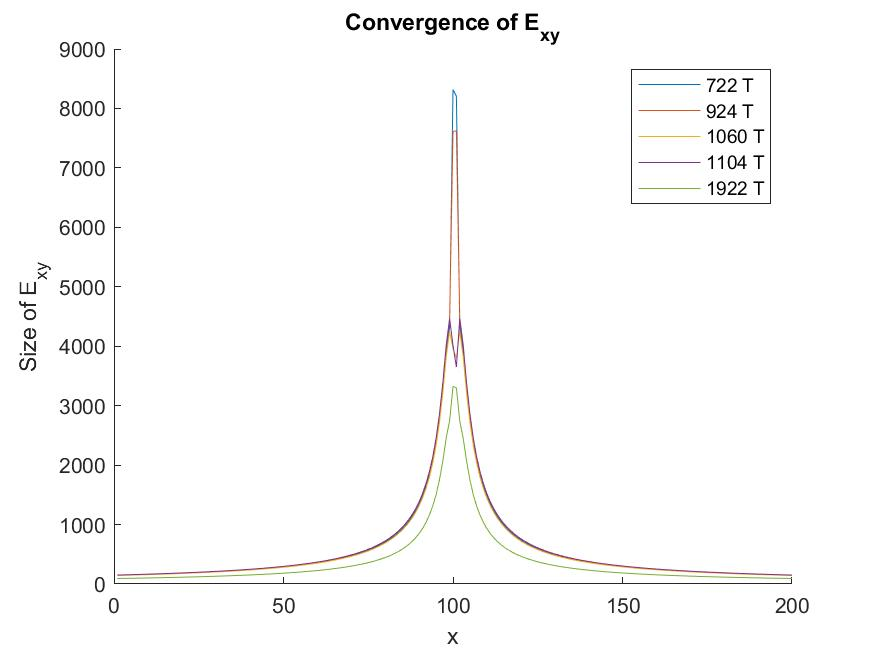
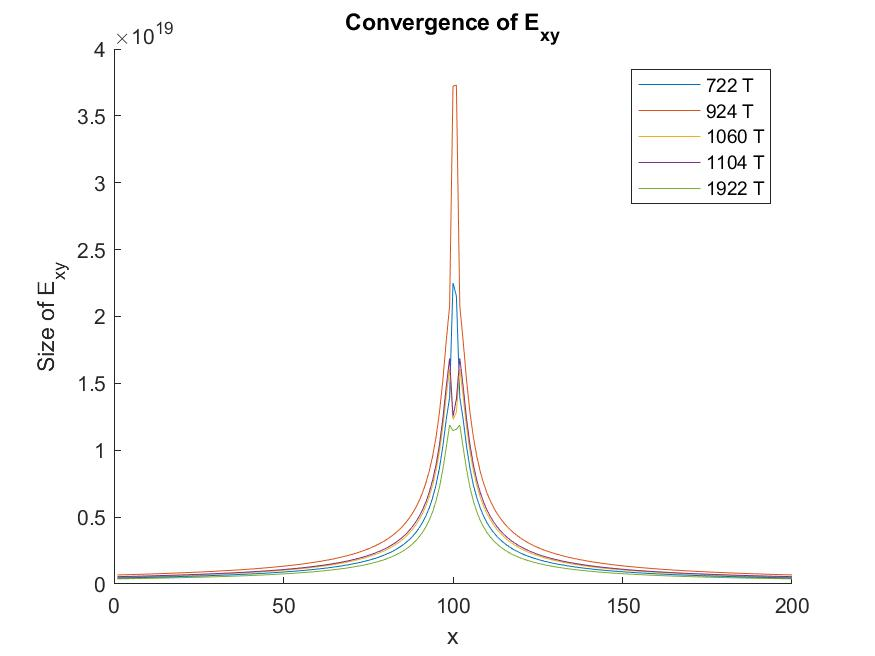
hopefully no conv

diff --git a/3D/LoadTesting.m b/3D/LoadTesting.m
@@ -6,10 +6,10 @@
 % stl = stlread('antennas/Dipole10cmT904.stl'); %
 % % stl = stlread('antennas/Dipole10cmT924.stl'); %god
 % stl = stlread('antennas/Dipole10cmT1060.stl'); %god
-stl = stlread('antennas/Dipole10cmT1104.stl'); %god
+% stl = stlread('antennas/Dipole10cmT1104.stl'); %god
 % stl = stlread('antennas/Dipole10cmT1458.stl'); %god 
 % stl = stlread('antennas/Dipole10cmT1680.stl'); 
-% stl = stlread('antennas/Dipole10cmT1922.stl'); %god
+stl = stlread('antennas/Dipole10cmT1922.stl'); %god
 % stl = stlread('antennas/Dipole10cmT2312.stl'); %god
 % stl = stlread('antennas/Dipole10cmT2888.stl'); %god
 % stl = stlread('antennas/Dipole10cmT3528.stl');
@@ -42,7 +42,7 @@ p4 = p;
 % t = [t; t+length(p1); t+length(p1)+length(p2); t+length(p1)+length(p2)+length(p3)];
 % % p(:,1) = p(:,1)+0.03;
 % Should source be dipole, if 0 a plane wave propagating in +x direction used
-UseDipole = 0;
+UseDipole = 1;
 DipolePoint = [.002,0,0];
 % If set to one use 81 sub triangles pr element, if 0 use 9
 SubSubTri = 0;

diff --git a/3D/ArbitraryAntenna.m b/3D/ArbitraryAntenna.m
@@ -530,6 +530,8 @@ classdef ArbitraryAntenna
                         zMM = (RhoM(MO(i),:));
                         zMM_ = (RhoM_(:,:,MO(i)));
                         for j=1:length(PI)
+                            zNP = (RhoP(PI(j),:));
+                            zNP_ = (RhoP_(:,:,PI(j)));
                             if MO(i)==PI(j)
                                 g = I2(y); 
                                 Z(MO(i), PI(j)) = ...
@@ -552,6 +554,8 @@ classdef ArbitraryAntenna
                             end 
                         end
                         for j=1:length(MI)
+                            zNM = (RhoM(MI(j),:));
+                            zNM_ = (RhoM_(:,:,MI(j))); 
                             if MO(i)==MI(j)
                                 g = I2(y);
                                 Z(MO(i), MI(j)) = ...
